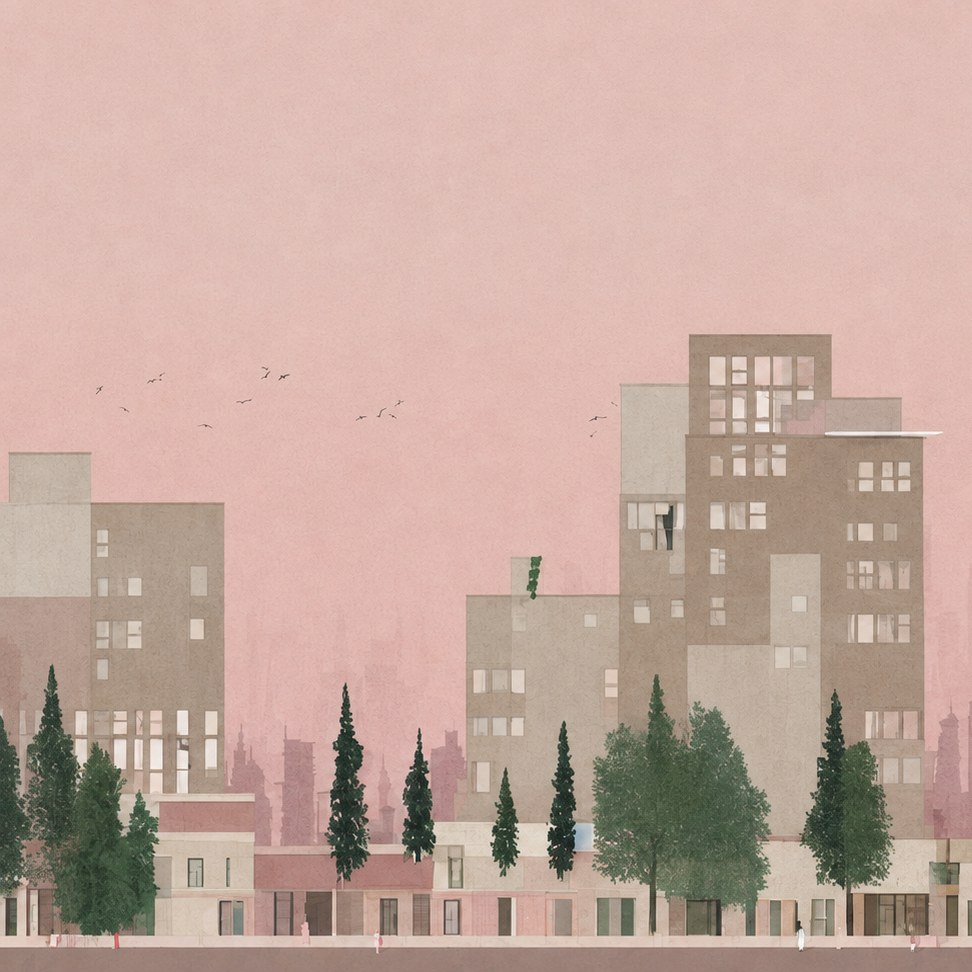
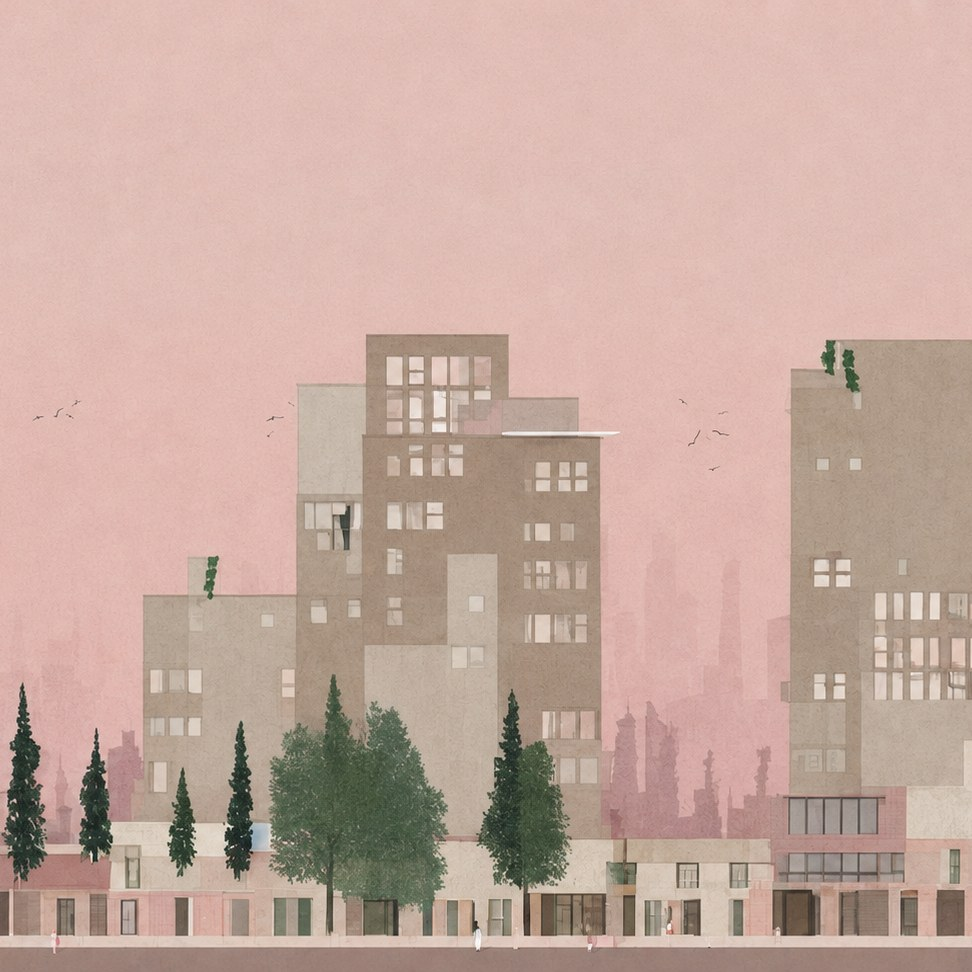
Centre the crop on anything that is not a slide
Chasing the densest marks through a wide render finds whatever corner holds
the most contrast. One Mars view has a dark slab down its left edge, and the
tile came back leaning on it with the dome and the city cut away. A picture
is composed around its middle, so that is where the window goes; only a
slide, which is mostly margin, still gets hunted.

diff --git a/index.html b/index.html
@@ -8,7 +8,7 @@
       content="I study how computational systems represent, learn, and evaluate architectural design knowledge, with shape grammar as the theoretical foundation, connected to AI, CAD data, and building performance simulation."
     />
     <title>Yichao Shi</title>
-    <link rel="stylesheet" href="styles.css?v=87" />
+    <link rel="stylesheet" href="styles.css?v=88" />
   </head>
   <body>
     <aside class="sidebar" aria-label="Profile and navigation">
@@ -83,60 +83,60 @@
         <div class="wall-grid">
           <a class="tile" href="#project/arch-2017" data-project="arch-2017">
             <img
-              src="assets/site_images/index/teaching/01.jpg?v=87"
+              src="assets/site_images/index/teaching/01.jpg?v=88"
               alt="Architectural Design Studio"
             />
           </a>
           <a class="tile" href="#project/arch-6020" data-project="arch-6020">
             <img
-              src="assets/site_images/index/teaching/02.jpg?v=87"
+              src="assets/site_images/index/teaching/02.jpg?v=88"
               alt="Advanced Computational Design"
             />
           </a>
           <a class="tile" href="#project/arch-2017" data-project="arch-2017">
             <img
-              src="assets/site_images/index/teaching/03.jpg?v=87"
+              src="assets/site_images/index/teaching/03.jpg?v=88"
               alt="Architectural Design Studio"
             />
           </a>
           <a class="tile" href="#project/arch-8833" data-project="arch-8833">
             <img
-              src="assets/site_images/index/teaching/04.jpg?v=87"
+              src="assets/site_images/index/teaching/04.jpg?v=88"
               alt="AI & Computational Design"
               loading="lazy"
             />
           </a>
           <a class="tile" href="#project/arch-2017" data-project="arch-2017">
             <img
-              src="assets/site_images/index/teaching/05.jpg?v=87"
+              src="assets/site_images/index/teaching/05.jpg?v=88"
               alt="Architectural Design Studio"
               loading="lazy"
             />
           </a>
           <a class="tile" href="#project/arch-6020" data-project="arch-6020">
             <img
-              src="assets/site_images/index/teaching/06.jpg?v=87"
+              src="assets/site_images/index/teaching/06.jpg?v=88"
               alt="Advanced Computational Design"
               loading="lazy"
             />
           </a>
           <a class="tile" href="#project/arch-2017" data-project="arch-2017">
             <img
-              src="assets/site_images/index/teaching/07.jpg?v=87"
+              src="assets/site_images/index/teaching/07.jpg?v=88"
               alt="Architectural Design Studio"
               loading="lazy"
             />
           </a>
           <a class="tile" href="#project/arch-6020" data-project="arch-6020">
             <img
-              src="assets/site_images/index/teaching/08.jpg?v=87"
+              src="assets/site_images/index/teaching/08.jpg?v=88"
               alt="Advanced Computational Design"
               loading="lazy"
             />
           </a>
           <a class="tile" href="#project/arch-8833" data-project="arch-8833">
             <img
-              src="assets/site_images/index/teaching/09.jpg?v=87"
+              src="assets/site_images/index/teaching/09.jpg?v=88"
               alt="AI & Computational Design"
               loading="lazy"
             />
@@ -149,84 +149,84 @@
         <div class="wall-grid">
           <a class="tile" href="#project/loops" data-project="loops">
             <img
-              src="assets/site_images/index/design/01.jpg?v=87"
+              src="assets/site_images/index/design/01.jpg?v=88"
               alt="LOOPS"
               loading="lazy"
             />
           </a>
           <a class="tile" href="#project/stadium" data-project="stadium">
             <img
-              src="assets/site_images/index/design/02.jpg?v=87"
+              src="assets/site_images/index/design/02.jpg?v=88"
               alt="Stadium Design for a University"
               loading="lazy"
             />
           </a>
           <a class="tile" href="#project/loops" data-project="loops">
             <img
-              src="assets/site_images/index/design/03.jpg?v=87"
+              src="assets/site_images/index/design/03.jpg?v=88"
               alt="LOOPS"
               loading="lazy"
             />
           </a>
           <a class="tile" href="#project/stadium" data-project="stadium">
             <img
-              src="assets/site_images/index/design/04.jpg?v=87"
+              src="assets/site_images/index/design/04.jpg?v=88"
               alt="Stadium Design for a University"
               loading="lazy"
             />
           </a>
           <a class="tile" href="#project/loops" data-project="loops">
             <img
-              src="assets/site_images/index/design/05.jpg?v=87"
+              src="assets/site_images/index/design/05.jpg?v=88"
               alt="LOOPS"
               loading="lazy"
             />
           </a>
           <a class="tile" href="#project/mars" data-project="mars">
             <img
-              src="assets/site_images/index/design/06.jpg?v=87"
+              src="assets/site_images/index/design/06.jpg?v=88"
               alt="Conquer the Mars"
               loading="lazy"
             />
           </a>
           <a class="tile" href="#project/robotics" data-project="robotics">
             <img
-              src="assets/site_images/index/design/07.jpg?v=87"
+              src="assets/site_images/index/design/07.jpg?v=88"
               alt="Overnight House"
               loading="lazy"
             />
           </a>
           <a class="tile" href="#project/street" data-project="street">
             <img
-              src="assets/site_images/index/design/08.jpg?v=87"
+              src="assets/site_images/index/design/08.jpg?v=88"
               alt="School Gate Street Reconstruction"
               loading="lazy"
             />
           </a>
           <a class="tile" href="#project/stadium" data-project="stadium">
             <img
-              src="assets/site_images/index/design/09.jpg?v=87"
+              src="assets/site_images/index/design/09.jpg?v=88"
               alt="Stadium Design for a University"
               loading="lazy"
             />
           </a>
           <a class="tile" href="#project/craftman" data-project="craftman">
             <img
-              src="assets/site_images/index/design/10.jpg?v=87"
+              src="assets/site_images/index/design/10.jpg?v=88"
               alt="Porcelain Handicraft Workshop"
               loading="lazy"
             />
           </a>
           <a class="tile" href="#project/mars" data-project="mars">
             <img
-              src="assets/site_images/index/design/11.jpg?v=87"
+              src="assets/site_images/index/design/11.jpg?v=88"
               alt="Conquer the Mars"
               loading="lazy"
             />
           </a>
           <a class="tile" href="#project/loops" data-project="loops">
             <img
-              src="assets/site_images/index/design/12.jpg?v=87"
+              src="assets/site_images/index/design/12.jpg?v=88"
               alt="LOOPS"
               loading="lazy"
             />
@@ -239,63 +239,63 @@
         <div class="wall-grid">
           <a class="tile" href="#project/acadia-2022" data-project="acadia-2022">
             <img
-              src="assets/site_images/index/research/01.jpg?v=87"
+              src="assets/site_images/index/research/01.jpg?v=88"
               alt="Elastic Robotic Structures"
               loading="lazy"
             />
           </a>
           <a class="tile" href="#project/simaud-2026" data-project="simaud-2026">
             <img
-              src="assets/site_images/index/research/02.jpg?v=87"
+              src="assets/site_images/index/research/02.jpg?v=88"
               alt="Shape Grammar + Building Performance"
               loading="lazy"
             />
           </a>
           <a class="tile" href="#project/caadria-2025-1" data-project="caadria-2025-1">
             <img
-              src="assets/site_images/index/research/03.jpg?v=87"
+              src="assets/site_images/index/research/03.jpg?v=88"
               alt="Shape Grammar + Generative AI"
               loading="lazy"
             />
           </a>
           <a class="tile" href="#project/caadria-2025-2" data-project="caadria-2025-2">
             <img
-              src="assets/site_images/index/research/04.jpg?v=87"
+              src="assets/site_images/index/research/04.jpg?v=88"
               alt="Generative AI + Interactive Design"
               loading="lazy"
             />
           </a>
           <a class="tile" href="#project/caadria-2026" data-project="caadria-2026">
             <img
-              src="assets/site_images/index/research/05.jpg?v=87"
+              src="assets/site_images/index/research/05.jpg?v=88"
               alt="Shape Grammar + AI Benchmarking"
               loading="lazy"
             />
           </a>
           <a class="tile" href="#project/acadia-2022" data-project="acadia-2022">
             <img
-              src="assets/site_images/index/research/06.jpg?v=87"
+              src="assets/site_images/index/research/06.jpg?v=88"
               alt="Elastic Robotic Structures"
               loading="lazy"
             />
           </a>
           <a class="tile" href="#project/dcc-2026" data-project="dcc-2026">
             <img
-              src="assets/site_images/index/research/07.jpg?v=87"
+              src="assets/site_images/index/research/07.jpg?v=88"
               alt="Shape Grammar + Inference"
               loading="lazy"
             />
           </a>
           <a class="tile" href="#project/simaud-2026" data-project="simaud-2026">
             <img
-              src="assets/site_images/index/research/08.jpg?v=87"
+              src="assets/site_images/index/research/08.jpg?v=88"
               alt="Shape Grammar + Building Performance"
               loading="lazy"
             />
           </a>
           <a class="tile" href="#project/dcc-2024" data-project="dcc-2024">
             <img
-              src="assets/site_images/index/research/09.jpg?v=87"
+              src="assets/site_images/index/research/09.jpg?v=88"
               alt="Shape Grammar + Parametric Design"
               loading="lazy"
             />
@@ -320,6 +320,6 @@
       <p class="lightbox-count" data-lightbox-count></p>
     </div>
 
-    <script src="script.js?v=87"></script>
+    <script src="script.js?v=88"></script>
   </body>
 </html>

diff --git a/script.js b/script.js
@@ -28,7 +28,7 @@ const projectSources = {
 // keeps its old copy indefinitely, and a returning visitor can end up running
 // new markup against old CSS. index.html carries the same stamp on script.js
 // and styles.css, so one bump reaches everything.
-const ASSET_VERSION = "87";
+const ASSET_VERSION = "88";
 const versioned = (url) => `${url}${url.includes("?") ? "&" : "?"}v=${ASSET_VERSION}`;
 
 const gallery = document.querySelector(".gallery");

diff --git a/tools/build_wall.py b/tools/build_wall.py
@@ -154,29 +154,36 @@ def looks_like_a_slide(image: Image.Image) -> bool:
     return sum(1 for v in grey if v > 235) / len(grey) > 0.5
 
 
-def ink_window(image: Image.Image) -> Image.Image:
-    """Crop square where the image carries its content, not at its centre.
+def centre(image: Image.Image) -> Image.Image:
+    width, height = image.size
+    side = min(width, height)
+    left, top = (width - side) // 2, (height - side) // 2
+    return image.crop((left, top, left + side, top + side))
 
-    A slide is mostly margin, so a centred window lands on white. Scoring columns
-    (or rows) by how many pixels are not near-white and taking the densest run
-    lands it on the figure. On a slide the title band above and the footer below
-    go first, or the tile reads as half a heading.
+
+def square_crop(image: Image.Image) -> Image.Image:
+    """Square. Centred, unless the source is a slide.
+
+    Centred is what a picture wants: a render or a photograph is composed
+    around its middle, and moving the window off it reads as a mistake even
+    when the window is technically fuller. Chasing the ink through a wide
+    render finds whatever corner holds the most contrast — one Mars view has a
+    dark slab down its left edge, and the tile came back leaning on it.
+
+    A slide is the exception: it is mostly white margin, so a centred window
+    lands on nothing, and its title band has to come off first.
     """
-    if looks_like_a_slide(image):
-        image = image.crop((0, round(image.height * 0.19), image.width, round(image.height * 0.89)))
+    if not looks_like_a_slide(image):
+        return centre(image)
+    return ink_window(image.crop((0, round(image.height * 0.19), image.width, round(image.height * 0.89))))
 
+
+def ink_window(image: Image.Image) -> Image.Image:
+    """Place the square where the marks are densest. For slides only."""
     width, height = image.size
     side = min(width, height)
     if width == height:
         return image
-
-    # A pick cropped square by hand has already been framed by someone who knew
-    # what mattered in it. Hunting for the ink would re-frame it; take the few
-    # per cent off both edges instead and leave the composition alone.
-    if max(width / height, height / width) < 1.15:
-        left = (width - side) // 2
-        top = (height - side) // 2
-        return image.crop((left, top, left + side, top + side))
 
     small = image.convert("L").resize((240, max(1, round(240 * height / width))))
     pixels = small.load()
@@ -344,7 +351,7 @@ def main() -> None:
 
 def cut(source: Path) -> Image.Image:
     image = load(source)
-    square = ink_window(image)
+    square = square_crop(image)
     if square.width > TILE:
         square = square.resize((TILE, TILE), Image.Resampling.LANCZOS)
         square = square.filter(ImageFilter.UnsharpMask(radius=0.8, percent=55, threshold=3))
